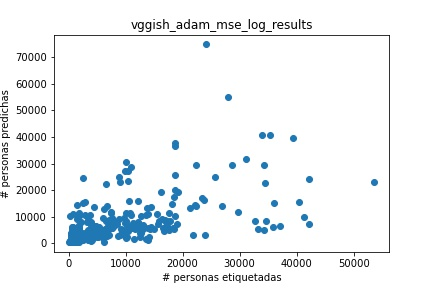
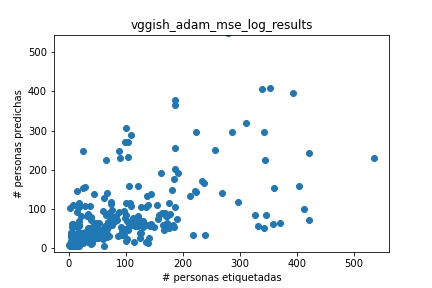
Corrected maxvals

diff --git a/generar_regression_plot.py b/generar_regression_plot.py
@@ -38,9 +38,11 @@ for fil in files:
         ypredicha = b['ypredicha']
 
     fig, ax = plt.subplots()
-    ax.scatter(yreal*100, ypredicha*100)
+    ax.scatter(yreal, ypredicha)
     ax.set_title(title)
     ax.set_xlabel('# personas etiquetadas')
     ax.set_ylabel('# personas predichas')
+    xmin, xmax = 0, yreal.max()
+    ax.set_ylim(xmin-xmax/50, xmax+xmax/50)
     fig.savefig(title+'.jpg')
 # %%
